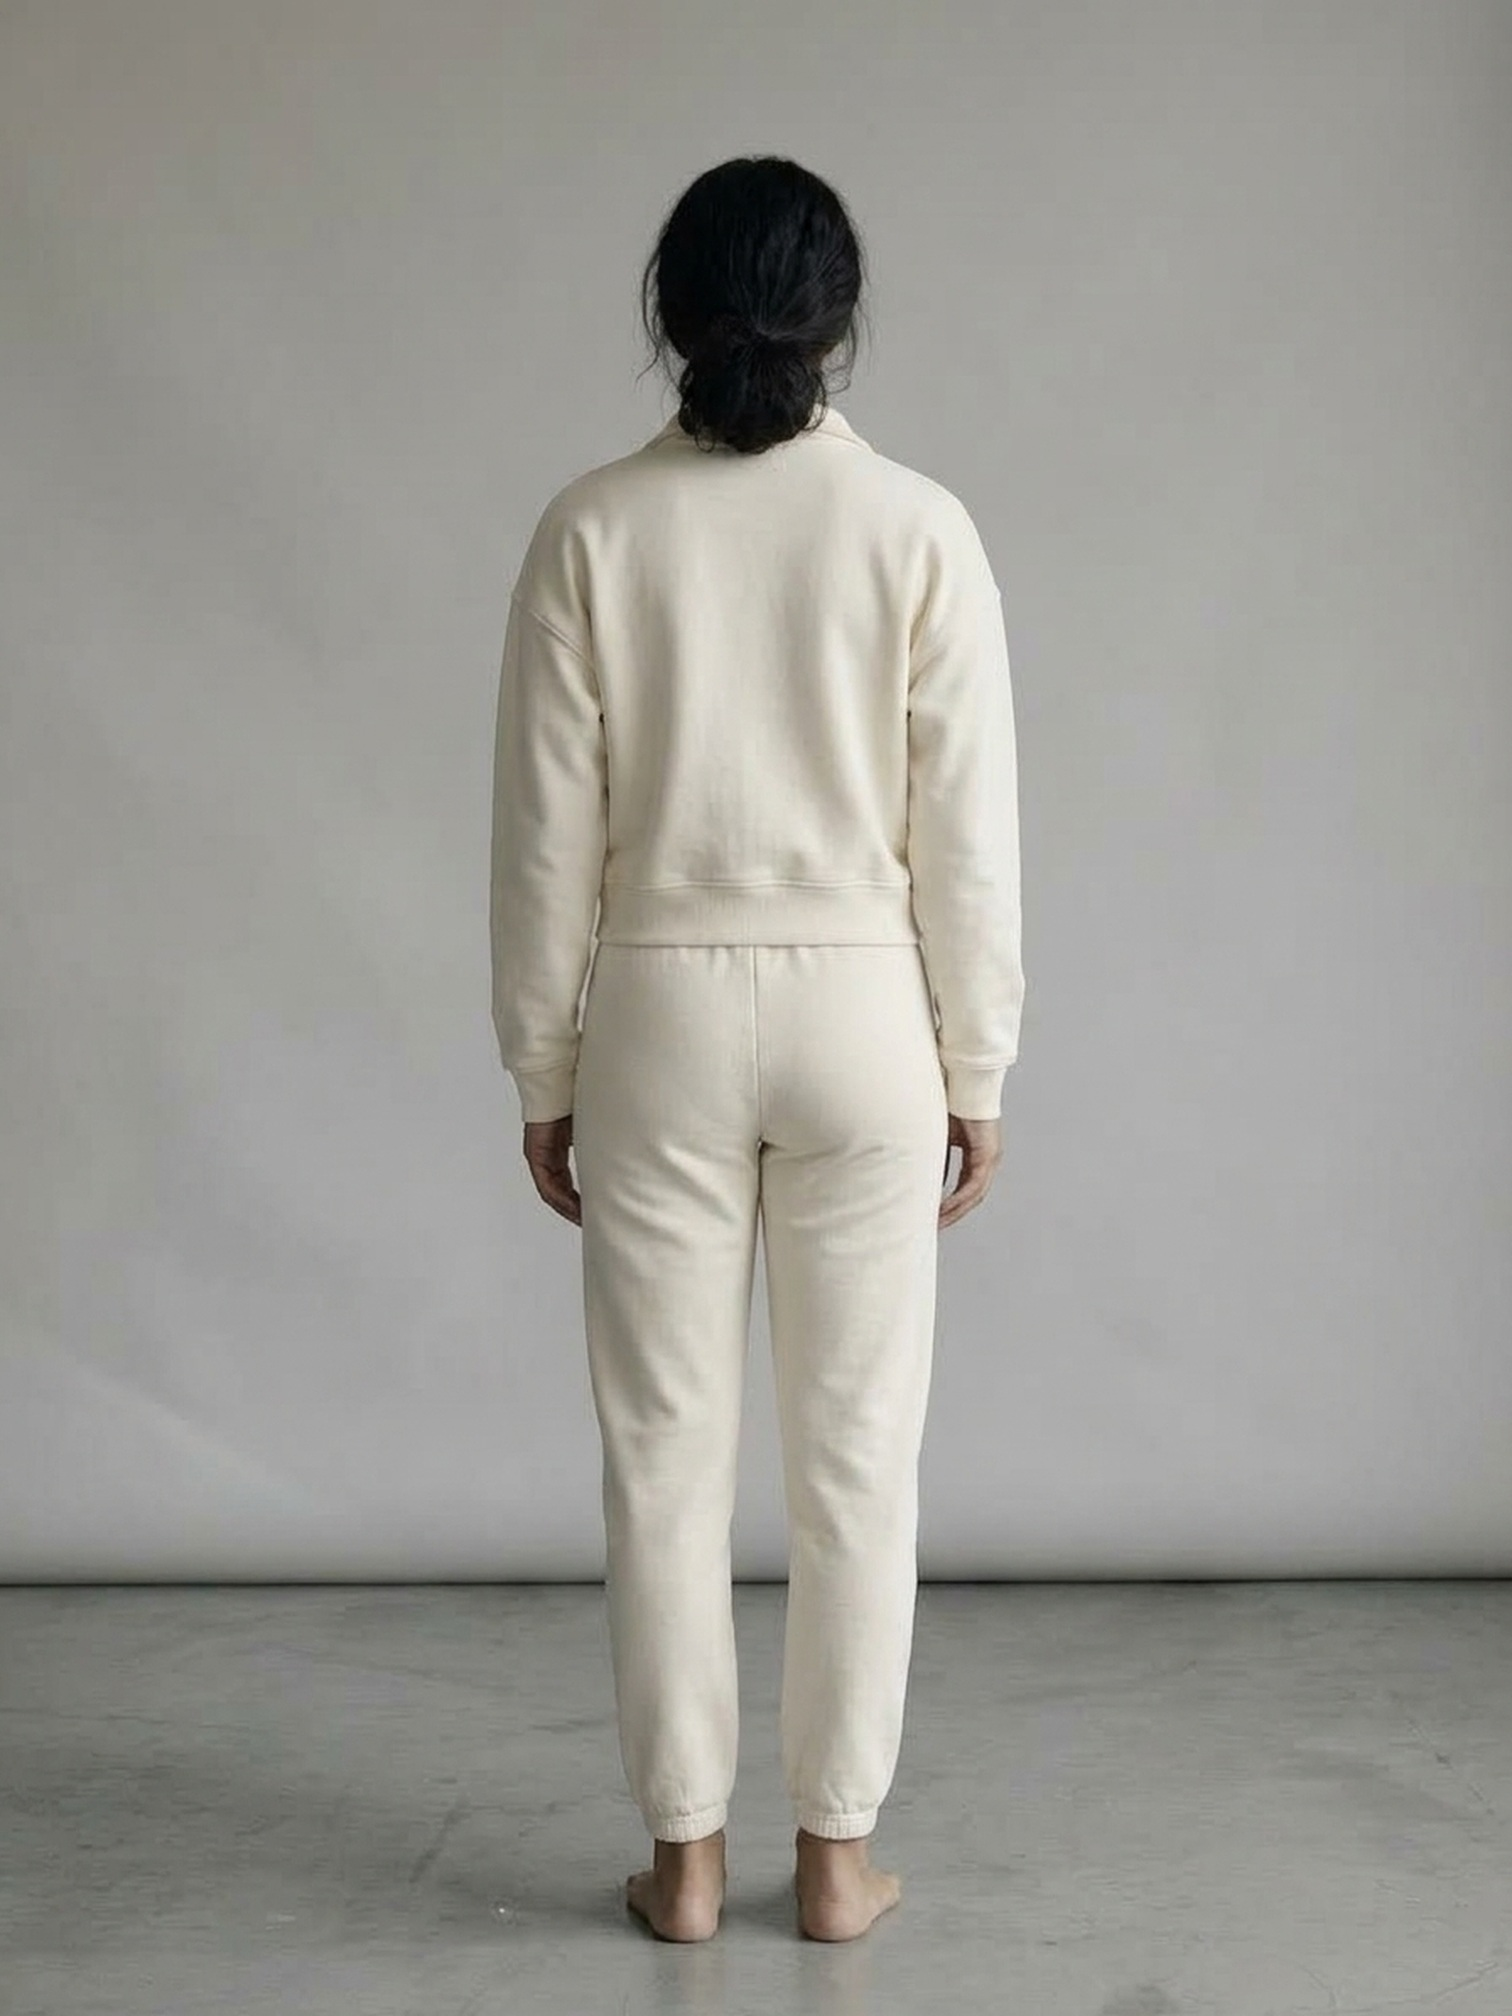
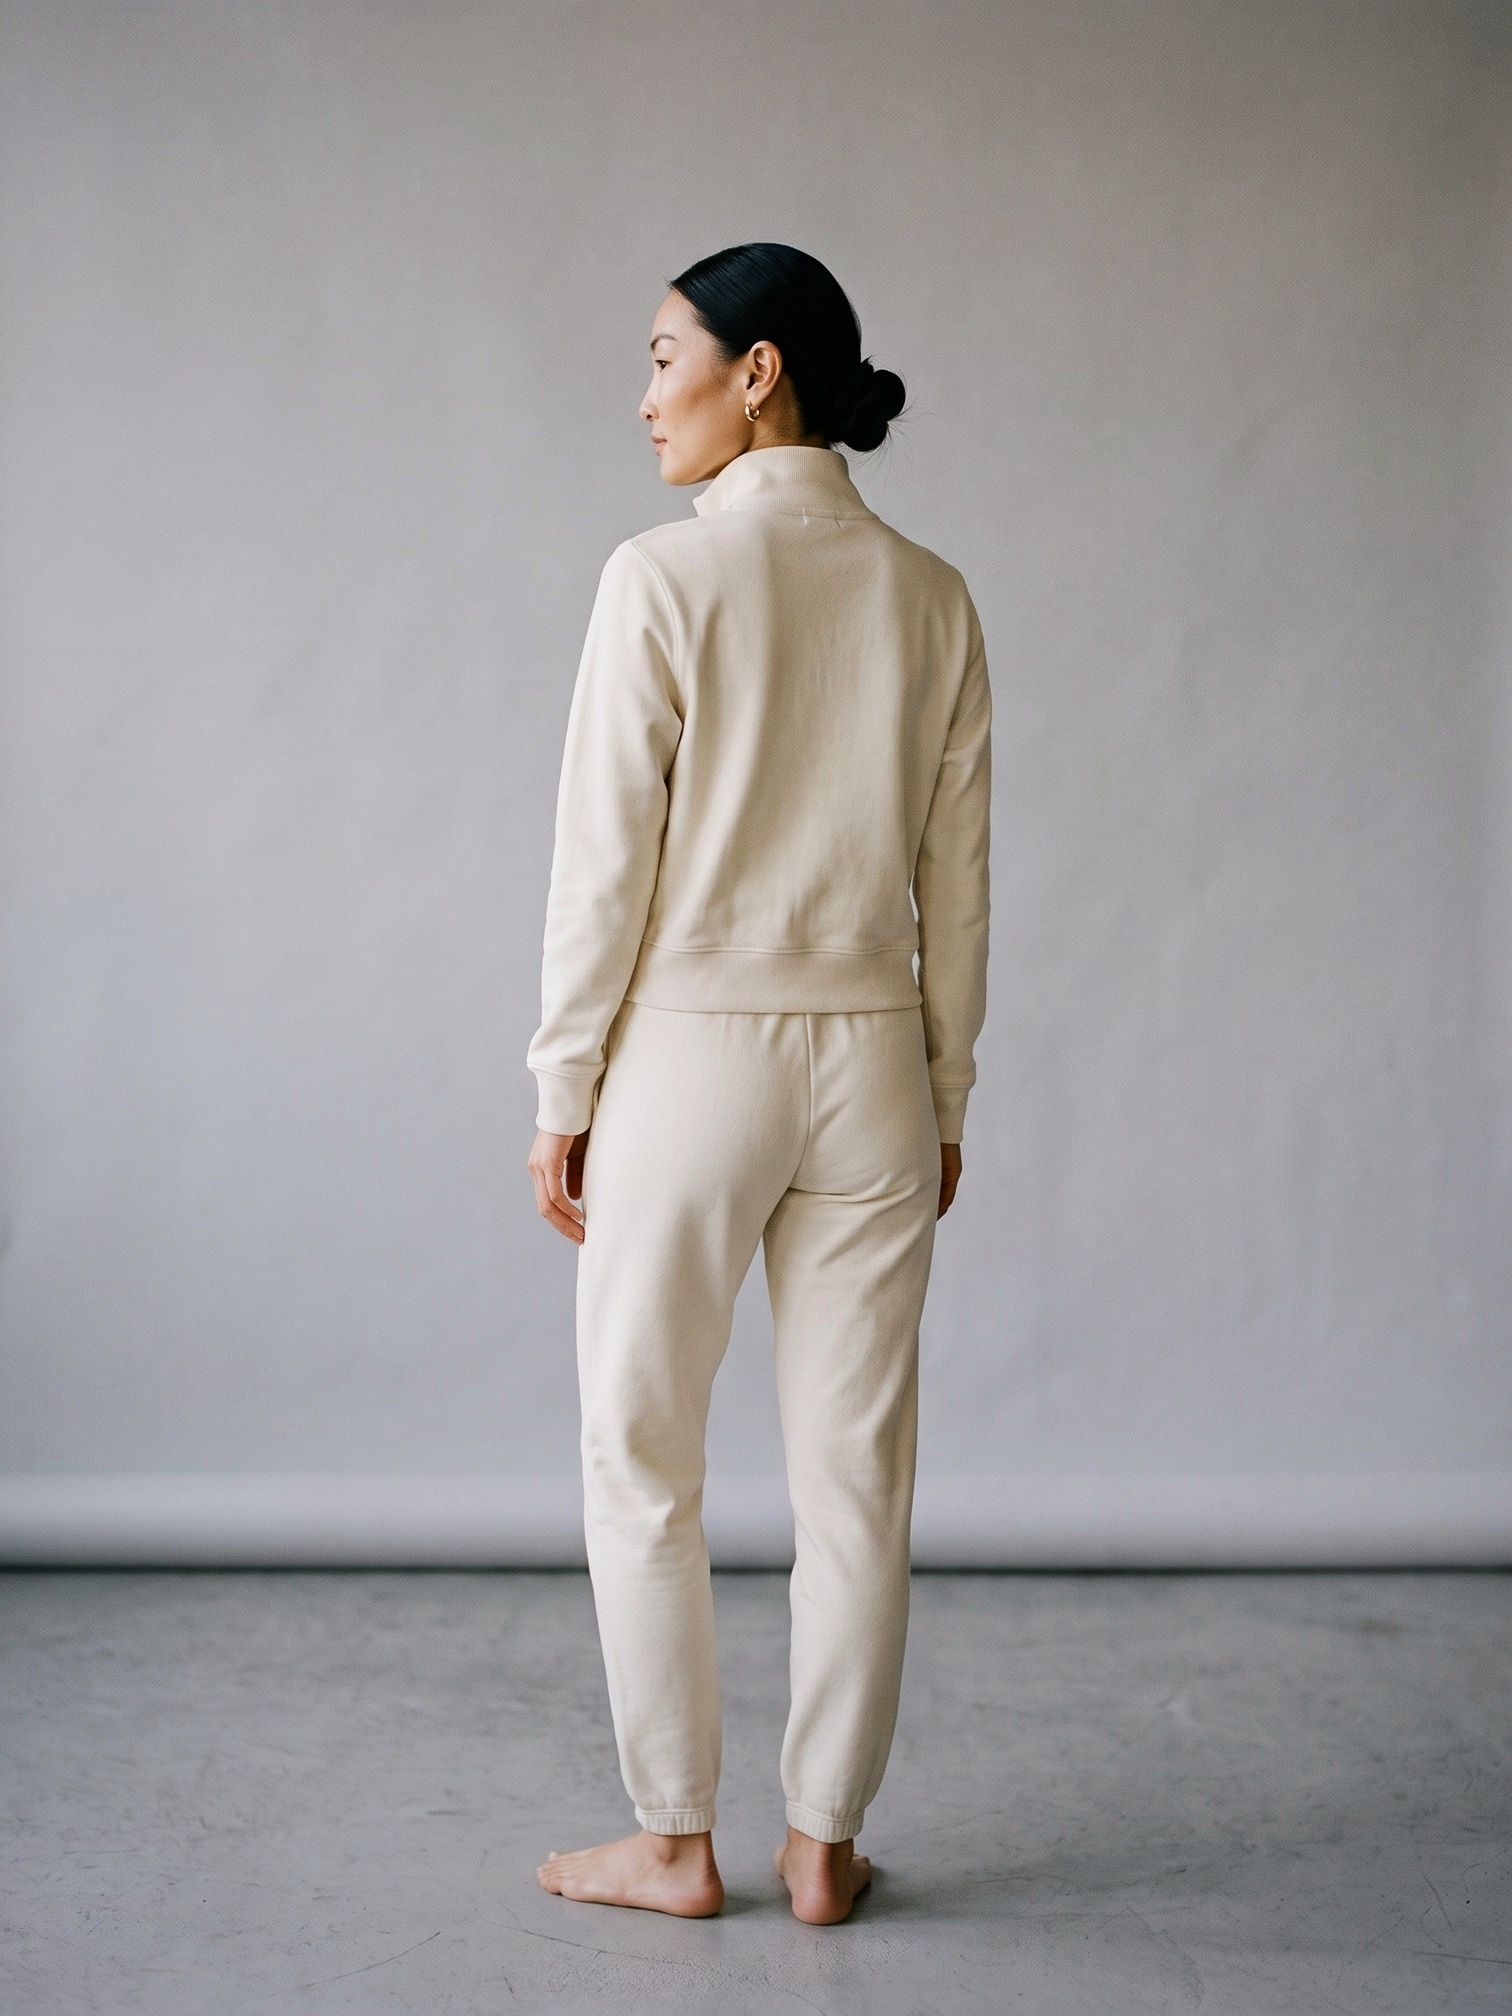
Catalogue re-shoot: all 36 product images on the house look (v33)
Every product now has hero / proof / back / detail on its locked model (A: tee, coord, short; B: loungeset,
legging-nude) from one Nano Banana Pro run, house-graded. Loungeset details re-shot as true close-ups.
qc.py moved to gemini-3.6-flash (2.5 retired). Pilot + rest job files added.

Claude-Session: https://claude.ai/code/session_01L58jsa3cKD3kLdvhcH6sHx

diff --git a/assets/products.js b/assets/products.js
@@ -18,10 +18,10 @@ window.COVERLINE_PRODUCTS = [
     proof: "Actually long enough. Loose, not clingy.",
     modelNote: "Model is 5'6\" and wears a size S.",
     colors: [
-      { key: "apricot", label: "Apricot", hex: "#dcb08c", image: "/assets/product-images/tee-apricot.jpg?v=8", images: ["/assets/product-images/tee-apricot.jpg?v=8", "/assets/product-images/tee-apricot-front.jpg?v=21", "/assets/product-images/tee-apricot-back.jpg?v=21", "/assets/product-images/tee-apricot-detail.jpg?v=21"] },
-      { key: "black", label: "Black", hex: "#25272a", image: "/assets/product-images/tee-black.jpg?v=8", images: ["/assets/product-images/tee-black.jpg?v=8", "/assets/product-images/tee-black-front.jpg?v=21", "/assets/product-images/tee-black-back.jpg?v=21", "/assets/product-images/tee-black-detail.jpg?v=21"] }
+      { key: "apricot", label: "Apricot", hex: "#dcb08c", image: "/assets/product-images/tee-apricot.jpg?v=33", images: ["/assets/product-images/tee-apricot.jpg?v=33", "/assets/product-images/tee-apricot-proof.jpg?v=33", "/assets/product-images/tee-apricot-back.jpg?v=33", "/assets/product-images/tee-apricot-detail.jpg?v=33"] },
+      { key: "black", label: "Black", hex: "#25272a", image: "/assets/product-images/tee-black.jpg?v=33", images: ["/assets/product-images/tee-black.jpg?v=33", "/assets/product-images/tee-black-proof.jpg?v=33", "/assets/product-images/tee-black-back.jpg?v=33", "/assets/product-images/tee-black-detail.jpg?v=33"] }
     ],
-    image: "/assets/product-images/tee-apricot.jpg?v=8",
+    image: "/assets/product-images/tee-apricot.jpg?v=33",
     swatch: function(){ return '<rect width="300" height="400" fill="var(--paper-raised)"/><path d="M0,260 C 80,210 160,300 300,240 L300,400 L0,400 Z" fill="var(--accent-2)" opacity=".55"/><path d="M0,120 C 100,180 200,60 300,130" fill="none" stroke="var(--accent)" stroke-width="1"/>'; }
   },
   {
@@ -37,10 +37,10 @@ window.COVERLINE_PRODUCTS = [
     proof: "Zips to the collar. Boxy jacket, easy jogger.",
     modelNote: "Model is 5'6\" and wears a size S.",
     colors: [
-      { key: "cream", label: "Cream", hex: "#e6e0d4", image: "/assets/product-images/loungeset-cream.jpg?v=8", images: ["/assets/product-images/loungeset-cream.jpg?v=8", "/assets/product-images/loungeset-cream-proof.jpg?v=22", "/assets/product-images/loungeset-cream-back.jpg?v=22", "/assets/product-images/loungeset-cream-detail.jpg?v=22"] },
-      { key: "navy", label: "Navy", hex: "#22283a", image: "/assets/product-images/loungeset-navy.jpg?v=8", images: ["/assets/product-images/loungeset-navy.jpg?v=8", "/assets/product-images/loungeset-navy-proof.jpg?v=22", "/assets/product-images/loungeset-navy-back.jpg?v=22", "/assets/product-images/loungeset-navy-detail.jpg?v=22"] }
+      { key: "cream", label: "Cream", hex: "#e6e0d4", image: "/assets/product-images/loungeset-cream.jpg?v=33", images: ["/assets/product-images/loungeset-cream.jpg?v=33", "/assets/product-images/loungeset-cream-proof.jpg?v=33", "/assets/product-images/loungeset-cream-back.jpg?v=33", "/assets/product-images/loungeset-cream-detail.jpg?v=33"] },
+      { key: "navy", label: "Navy", hex: "#22283a", image: "/assets/product-images/loungeset-navy.jpg?v=33", images: ["/assets/product-images/loungeset-navy.jpg?v=33", "/assets/product-images/loungeset-navy-proof.jpg?v=33", "/assets/product-images/loungeset-navy-back.jpg?v=33", "/assets/product-images/loungeset-navy-detail.jpg?v=33"] }
     ],
-    image: "/assets/product-images/loungeset-cream.jpg?v=8",
+    image: "/assets/product-images/loungeset-cream.jpg?v=33",
     swatch: function(){ return '<rect width="300" height="400" fill="var(--paper-raised)"/><path d="M0,300 C 90,340 220,250 300,300 L300,400 L0,400 Z" fill="var(--accent)" opacity=".4"/><path d="M20,90 C 120,40 200,140 290,80" fill="none" stroke="var(--accent-2)" stroke-width="1"/>'; }
   },
   {
@@ -56,10 +56,10 @@ window.COVERLINE_PRODUCTS = [
     proof: "Contrast-trim shirt + wide-leg trouser. Loose by design.",
     modelNote: "Model is 5'6\" and wears a size S, with the Long-Enough Tee in Black underneath.",
     colors: [
-      { key: "black", label: "Black", hex: "#25272a", image: "/assets/product-images/coord-black.jpg?v=30", images: ["/assets/product-images/coord-black.jpg?v=30", "/assets/product-images/coord-black-front.jpg?v=30", "/assets/product-images/coord-black-back.jpg?v=30", "/assets/product-images/coord-black-detail.jpg?v=30"] },
-      { key: "oat", label: "Oat", hex: "#d9c9ad", image: "/assets/product-images/coord-oat.jpg?v=30", images: ["/assets/product-images/coord-oat.jpg?v=30", "/assets/product-images/coord-oat-front.jpg?v=30", "/assets/product-images/coord-oat-back.jpg?v=30", "/assets/product-images/coord-oat-detail.jpg?v=30"] }
+      { key: "black", label: "Black", hex: "#25272a", image: "/assets/product-images/coord-black.jpg?v=33", images: ["/assets/product-images/coord-black.jpg?v=33", "/assets/product-images/coord-black-proof.jpg?v=33", "/assets/product-images/coord-black-back.jpg?v=33", "/assets/product-images/coord-black-detail.jpg?v=33"] },
+      { key: "oat", label: "Oat", hex: "#d9c9ad", image: "/assets/product-images/coord-oat.jpg?v=33", images: ["/assets/product-images/coord-oat.jpg?v=33", "/assets/product-images/coord-oat-proof.jpg?v=33", "/assets/product-images/coord-oat-back.jpg?v=33", "/assets/product-images/coord-oat-detail.jpg?v=33"] }
     ],
-    image: "/assets/product-images/coord-black.jpg?v=30",
+    image: "/assets/product-images/coord-black.jpg?v=33",
     swatch: function(){ return '<rect width="300" height="400" fill="var(--paper-raised)"/><path d="M0,210 C 90,260 190,180 300,230 L300,400 L0,400 Z" fill="var(--accent)" opacity=".45"/><path d="M0,320 C 110,280 190,360 300,310" fill="none" stroke="var(--accent-2)" stroke-width="1"/><path d="M10,80 C 100,120 200,50 290,100" fill="none" stroke="var(--accent-2)" stroke-width="1"/>'; }
   },
   {
@@ -76,7 +76,7 @@ window.COVERLINE_PRODUCTS = [
     modelNote: "Model is 5'3\" and wears a size S.",
     colors: [
       { key: "black", label: "Black", hex: "#25272a", image: "/assets/product-images/legging-black.jpg?v=32", images: ["/assets/product-images/legging-black.jpg?v=32", "/assets/product-images/legging-black-proof.jpg?v=32", "/assets/product-images/legging-black-back.jpg?v=32", "/assets/product-images/legging-black-detail.jpg?v=32"] },
-      { key: "nude", label: "Sand", hex: "#c9a888", image: "/assets/product-images/legging-nude.jpg?v=32", images: ["/assets/product-images/legging-nude.jpg?v=32", "/assets/product-images/legging-nude-proof.jpg?v=32", "/assets/product-images/legging-nude-back.jpg?v=32", "/assets/product-images/legging-nude-detail.jpg?v=32"] }
+      { key: "nude", label: "Sand", hex: "#c9a888", image: "/assets/product-images/legging-nude.jpg?v=33", images: ["/assets/product-images/legging-nude.jpg?v=33", "/assets/product-images/legging-nude-proof.jpg?v=33", "/assets/product-images/legging-nude-back.jpg?v=33", "/assets/product-images/legging-nude-detail.jpg?v=33"] }
     ],
     image: "/assets/product-images/legging-black.jpg?v=25",
     swatch: function(){ return '<rect width="300" height="400" fill="var(--paper-raised)"/><path d="M0,240 C 100,300 200,200 300,260 L300,400 L0,400 Z" fill="var(--accent-2)" opacity=".5"/><path d="M0,150 C 110,90 190,210 300,160" fill="none" stroke="var(--accent)" stroke-width="1"/>'; }
@@ -94,10 +94,10 @@ window.COVERLINE_PRODUCTS = [
     proof: "Cut longer than the usual gym short. Seamless, so nothing shows through.",
     modelNote: "Model is 5'3\" and wears a size S.",
     colors: [
-      { key: "maroon", label: "Wine", hex: "#532d2e", image: "/assets/product-images/short-maroon.jpg?v=32", images: ["/assets/product-images/short-maroon.jpg?v=32", "/assets/product-images/short-maroon-back.jpg?v=32", "/assets/product-images/short-maroon-detail.jpg?v=32"] },
-      { key: "pink", label: "Blush", hex: "#dcb9b6", image: "/assets/product-images/short-pink.jpg?v=32", images: ["/assets/product-images/short-pink.jpg?v=32", "/assets/product-images/short-pink-back.jpg?v=32", "/assets/product-images/short-pink-detail.jpg?v=32"] }
+      { key: "maroon", label: "Wine", hex: "#532d2e", image: "/assets/product-images/short-maroon.jpg?v=33", images: ["/assets/product-images/short-maroon.jpg?v=33", "/assets/product-images/short-maroon-proof.jpg?v=33", "/assets/product-images/short-maroon-back.jpg?v=33", "/assets/product-images/short-maroon-detail.jpg?v=33"] },
+      { key: "pink", label: "Blush", hex: "#dcb9b6", image: "/assets/product-images/short-pink.jpg?v=33", images: ["/assets/product-images/short-pink.jpg?v=33", "/assets/product-images/short-pink-proof.jpg?v=33", "/assets/product-images/short-pink-back.jpg?v=33", "/assets/product-images/short-pink-detail.jpg?v=33"] }
     ],
-    image: "/assets/product-images/short-maroon.jpg?v=32",
+    image: "/assets/product-images/short-maroon.jpg?v=33",
     swatch: function(){ return '<rect width="300" height="400" fill="var(--paper-raised)"/><path d="M0,270 C 100,320 200,240 300,280 L300,400 L0,400 Z" fill="var(--accent-2)" opacity=".5"/><path d="M0,170 C 100,220 200,120 300,180" fill="none" stroke="var(--accent)" stroke-width="1"/>'; }
   }
 ];

diff --git a/product.html b/product.html
@@ -74,7 +74,7 @@
   </div>
 </footer>
 
-<script src="/assets/products.js?v=32"></script>
+<script src="/assets/products.js?v=33"></script>
 <script src="/assets/sizecharts.js?v=2"></script>
 <script src="/assets/reviews.js?v=1"></script>
 <script src="/assets/config.js?v=4"></script>

diff --git a/index.html b/index.html
@@ -99,7 +99,7 @@
   </div>
 </footer>
 
-<script src="/assets/products.js?v=32"></script>
+<script src="/assets/products.js?v=33"></script>
 <script src="/assets/config.js?v=4"></script>
 <script src="/assets/cart.js?v=9"></script>
 <script>

diff --git a/review.html b/review.html
@@ -73,7 +73,7 @@
   </div>
 </footer>
 
-<script src="/assets/products.js?v=32"></script>
+<script src="/assets/products.js?v=33"></script>
 <script src="/assets/config.js?v=4"></script>
 <script src="/assets/cart.js?v=9"></script>
 <script>

diff --git a/privacy.html b/privacy.html
@@ -84,7 +84,7 @@
   </div>
 </footer>
 
-<script src="/assets/products.js?v=32"></script>
+<script src="/assets/products.js?v=33"></script>
 <script src="/assets/config.js?v=4"></script>
 <script src="/assets/cart.js?v=9"></script>
 </body>

diff --git a/shipping-returns.html b/shipping-returns.html
@@ -77,7 +77,7 @@
   </div>
 </footer>
 
-<script src="/assets/products.js?v=32"></script>
+<script src="/assets/products.js?v=33"></script>
 <script src="/assets/config.js?v=4"></script>
 <script src="/assets/cart.js?v=9"></script>
 </body>

diff --git a/terms.html b/terms.html
@@ -91,7 +91,7 @@
   </div>
 </footer>
 
-<script src="/assets/products.js?v=32"></script>
+<script src="/assets/products.js?v=33"></script>
 <script src="/assets/config.js?v=4"></script>
 <script src="/assets/cart.js?v=9"></script>
 </body>

diff --git a/tools/imagery/qc.py b/tools/imagery/qc.py
@@ -41,7 +41,7 @@ def gemini_check(path, model_key, garment_hint=""):
          "same_person (true/false), confidence (0-1), defects (list of strings from: extra_fingers, fused_fingers, "
          "bent_wrist, watermark, bare_midriff, extra_limb, distorted_face, text_artifacts — empty if none), "
          "backdrop_plain_grey (true/false), notes (short). " + (f"Garment expected: {garment_hint}. Add key garment_matches (true/false)." if garment_hint else ""))
-    resp = client.models.generate_content(model="gemini-2.5-flash", contents=[ref, cand, q])
+    resp = client.models.generate_content(model="gemini-3.6-flash", contents=[ref, cand, q])
     txt = resp.text.strip().strip("`")
     if txt.startswith("json"): txt = txt[4:]
     return json.loads(txt)
